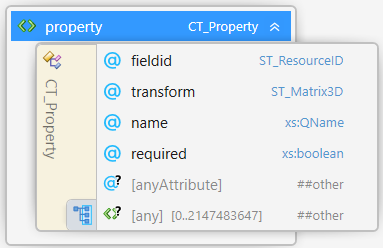
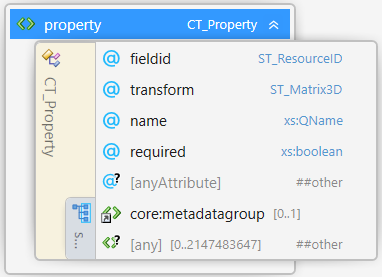
Add metadatagroup to propery-element
The schema might be incorrect, though.

Changed region(s): [[0.0, 0.0, 1.0, 0.9597], [0.7199, 0.5927, 0.9215, 0.6774], [0.0, 0.875, 0.0288, 0.9879]]

diff --git a/3MF Volumetric Extension.md b/3MF Volumetric Extension.md
@@ -623,7 +623,7 @@ Element **\<property>**
 | --- | --- | --- | --- | --- |
 | fieldid | ST\_ResourceID | required | | ResourceID of the \<scalarfield> or \<vector3dfield> that holds the value of this property |
 | transform | ST\_Matrix3D | | | Transformation of the object coordinate system into the \<scalarfield> or \<vector3dfield> coordinate system |
-| name | xs:QName | required | | Namespace and name of this property |
+| name | xs:QName | required | | Contains either the name of the property, defined in a 3MF extension specification, or the name of a vendor-defined property. Either MUST be prefixed with a valid XML namespace name declared on the \<model> element. |
 | required | xs:boolean | | false | Indicator whether this property is required to process this 3MF document instance. |
 
 The \<property> element allows to assign any point in space a scalar or vectorial value of a freely definable property. This can be used to assign, e.g. opacity, conductivity, or translucency.
@@ -651,6 +651,7 @@ If a physical unit is necessary, the namespace owner MUST define a unique and un
 If a \<property> is marked as `required`, and a consumer does not support it, it MUST warn the user or the appropriate upstream processes that it cannot process all contents in this 3MF document instance.
 Producers of 3MF files MUST mark all volumetric \<property>-elements required to represent the design intent of a model as `required`.
 
+The property element CAN have an optional group of CT\_Metadata elements (\<metadatagroup>) as specified in the Metadata section of the 3MF core specification, see https://github.com/3MFConsortium/spec_core/blob/develop_1.3.0/3MF%20Core%20Specification.md#341-metadata.
 
 # Chapter 6. Notes
 
@@ -702,8 +703,10 @@ See [the standard 3MF Glossary](https://github.com/3MFConsortium/spec_resources/
 ```xml
 <?xml version="1.0" encoding="UTF-8"?>
 <xs:schema xmlns="http://schemas.microsoft.com/3dmanufacturing/volumetric/2022/01" xmlns:xs="http://www.w3.org/2001/XMLSchema"
-xmlns:xml="http://www.w3.org/XML/1998/namespace" targetNamespace="http://schemas.microsoft.com/3dmanufacturing/volumetric/2018/11"
-	elementFormDefault="unqualified" attributeFormDefault="unqualified" blockDefault="#all">
+xmlns:xml="http://www.w3.org/XML/1998/namespace" targetNamespace="http://schemas.microsoft.com/3dmanufacturing/volumetric/2022/01"
+	elementFormDefault="unqualified" attributeFormDefault="unqualified" blockDefault="#all" xmlns:core="http://schemas.microsoft.com/3dmanufacturing/core/2015/02">
+	<xs:import namespace="http://schemas.microsoft.com/3dmanufacturing/core/2015/02"/>
+
 	<xs:annotation>
 		<xs:documentation>
 			<![CDATA[
@@ -828,7 +831,6 @@ xmlns:xml="http://www.w3.org/XML/1998/namespace" targetNamespace="http://schemas
 		<xs:attribute name="tilestyleu" type="ST_TileStyle" default="wrap"/>
 		<xs:attribute name="tilestylev" type="ST_TileStyle" default="wrap"/>
 		<xs:attribute name="tilestylew" type="ST_TileStyle" default="wrap"/>
-		<xs:attribute name="compositionspace" type="ST_CompositionSpace" default="raw"/>
 		<xs:anyAttribute namespace="##other" processContents="lax"/>
 	</xs:complexType>
 
@@ -845,6 +847,7 @@ xmlns:xml="http://www.w3.org/XML/1998/namespace" targetNamespace="http://schemas
 		<xs:attribute name="transform1" type="ST_Matrix3D"/>
 		<xs:attribute name="transform2" type="ST_Matrix3D"/>
 		<xs:attribute name="transformmask" type="ST_Matrix3D"/>
+		<xs:attribute name="compositionspace" type="ST_CompositionSpace" default="raw"/>
 		<xs:anyAttribute namespace="##other" processContents="lax"/>
 	</xs:complexType>
 
@@ -894,7 +897,7 @@ xmlns:xml="http://www.w3.org/XML/1998/namespace" targetNamespace="http://schemas
 		<xs:anyAttribute namespace="##other" processContents="lax"/>
 	</xs:complexType>
 
-		<xs:complexType name="CT_MaterialMapping">
+	<xs:complexType name="CT_MaterialMapping">
 		<xs:sequence>
 			<xs:any namespace="##other" processContents="lax" minOccurs="0" maxOccurs="2147483647"/>
 		</xs:sequence>
@@ -905,6 +908,7 @@ xmlns:xml="http://www.w3.org/XML/1998/namespace" targetNamespace="http://schemas
 
 	<xs:complexType name="CT_Property">
 		<xs:sequence>
+			<xs:element ref="core:metadatagroup" minOccurs="0" maxOccurs="1"/>
 			<xs:any namespace="##other" processContents="lax" minOccurs="0" maxOccurs="2147483647"/>
 		</xs:sequence>
 		<xs:attribute name="fieldid" type="ST_ResourceID" use="required"/>
